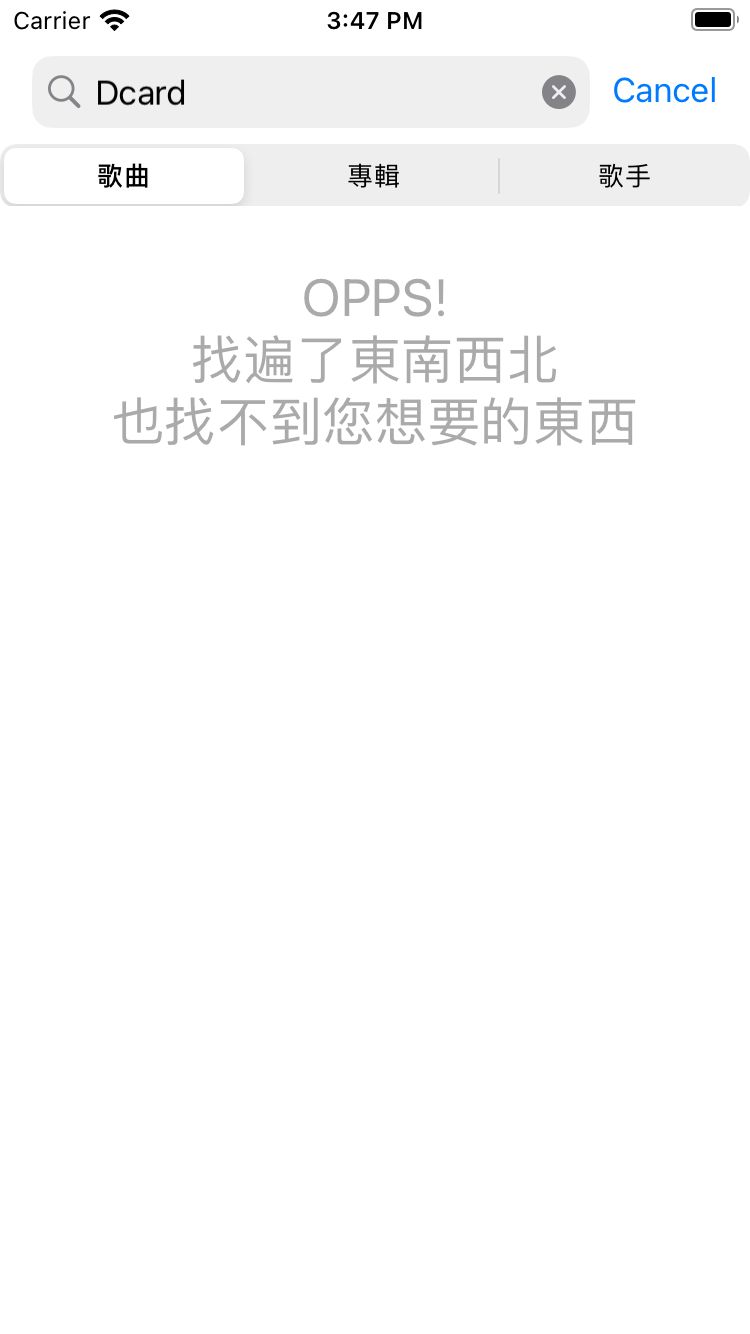
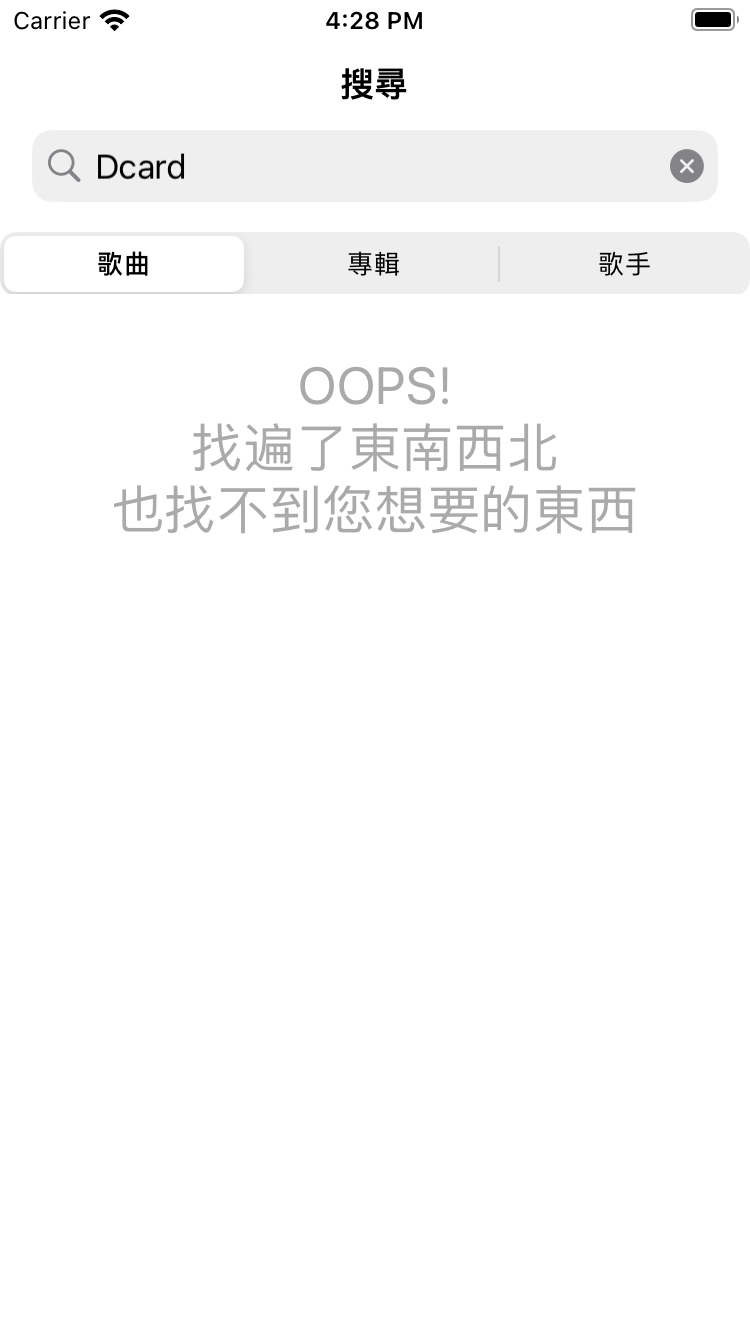
fix: 拼字錯誤
OPPS -> OOPS

diff --git a/iTunes_Search_Application_UIKit/ViewController/SearchViewController.swift b/iTunes_Search_Application_UIKit/ViewController/SearchViewController.swift
@@ -103,7 +103,7 @@ class SearchViewController: UIViewController, UITableViewDataSource, UITableView
         label.textColor = .lightGray
         label.numberOfLines = 3
         label.textAlignment = .center
-        label.text = "OPPS!\n找遍了東南西北\n也找不到您想要的東西"
+        label.text = "OOPS!\n找遍了東南西北\n也找不到您想要的東西"
         label.font = UIFont.systemFont(ofSize: 26)
         
         emptyResultView.addSubview(label)
